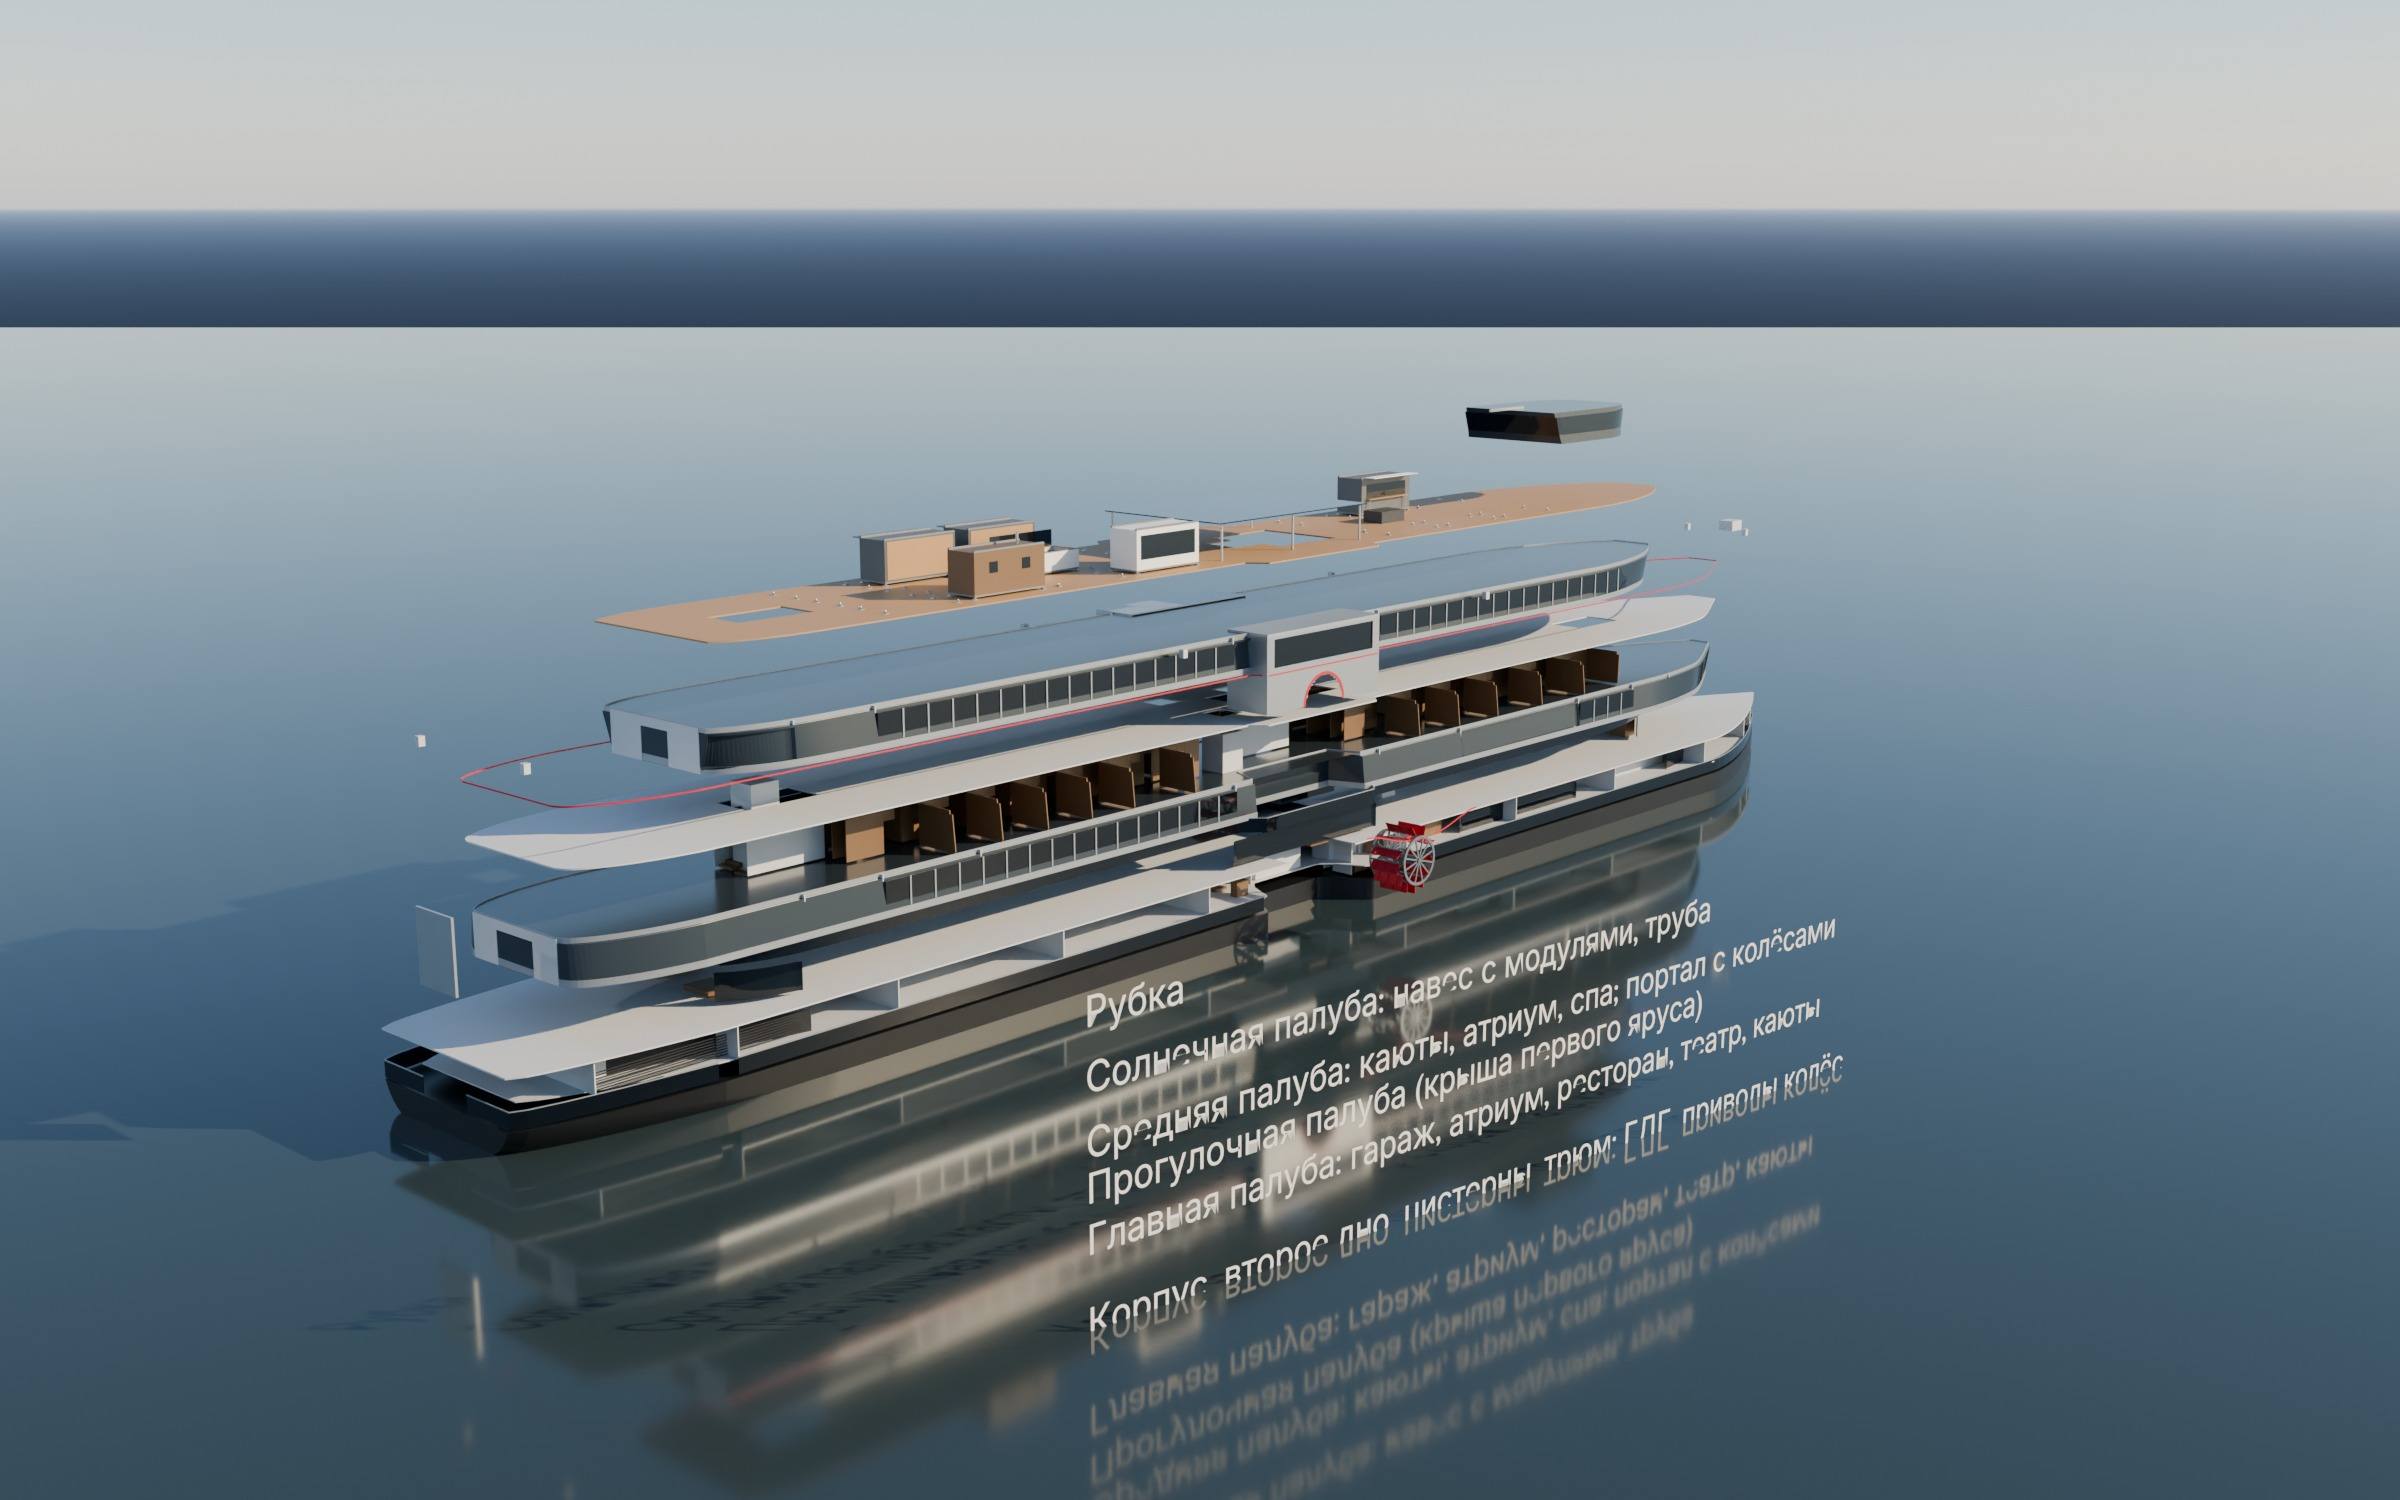
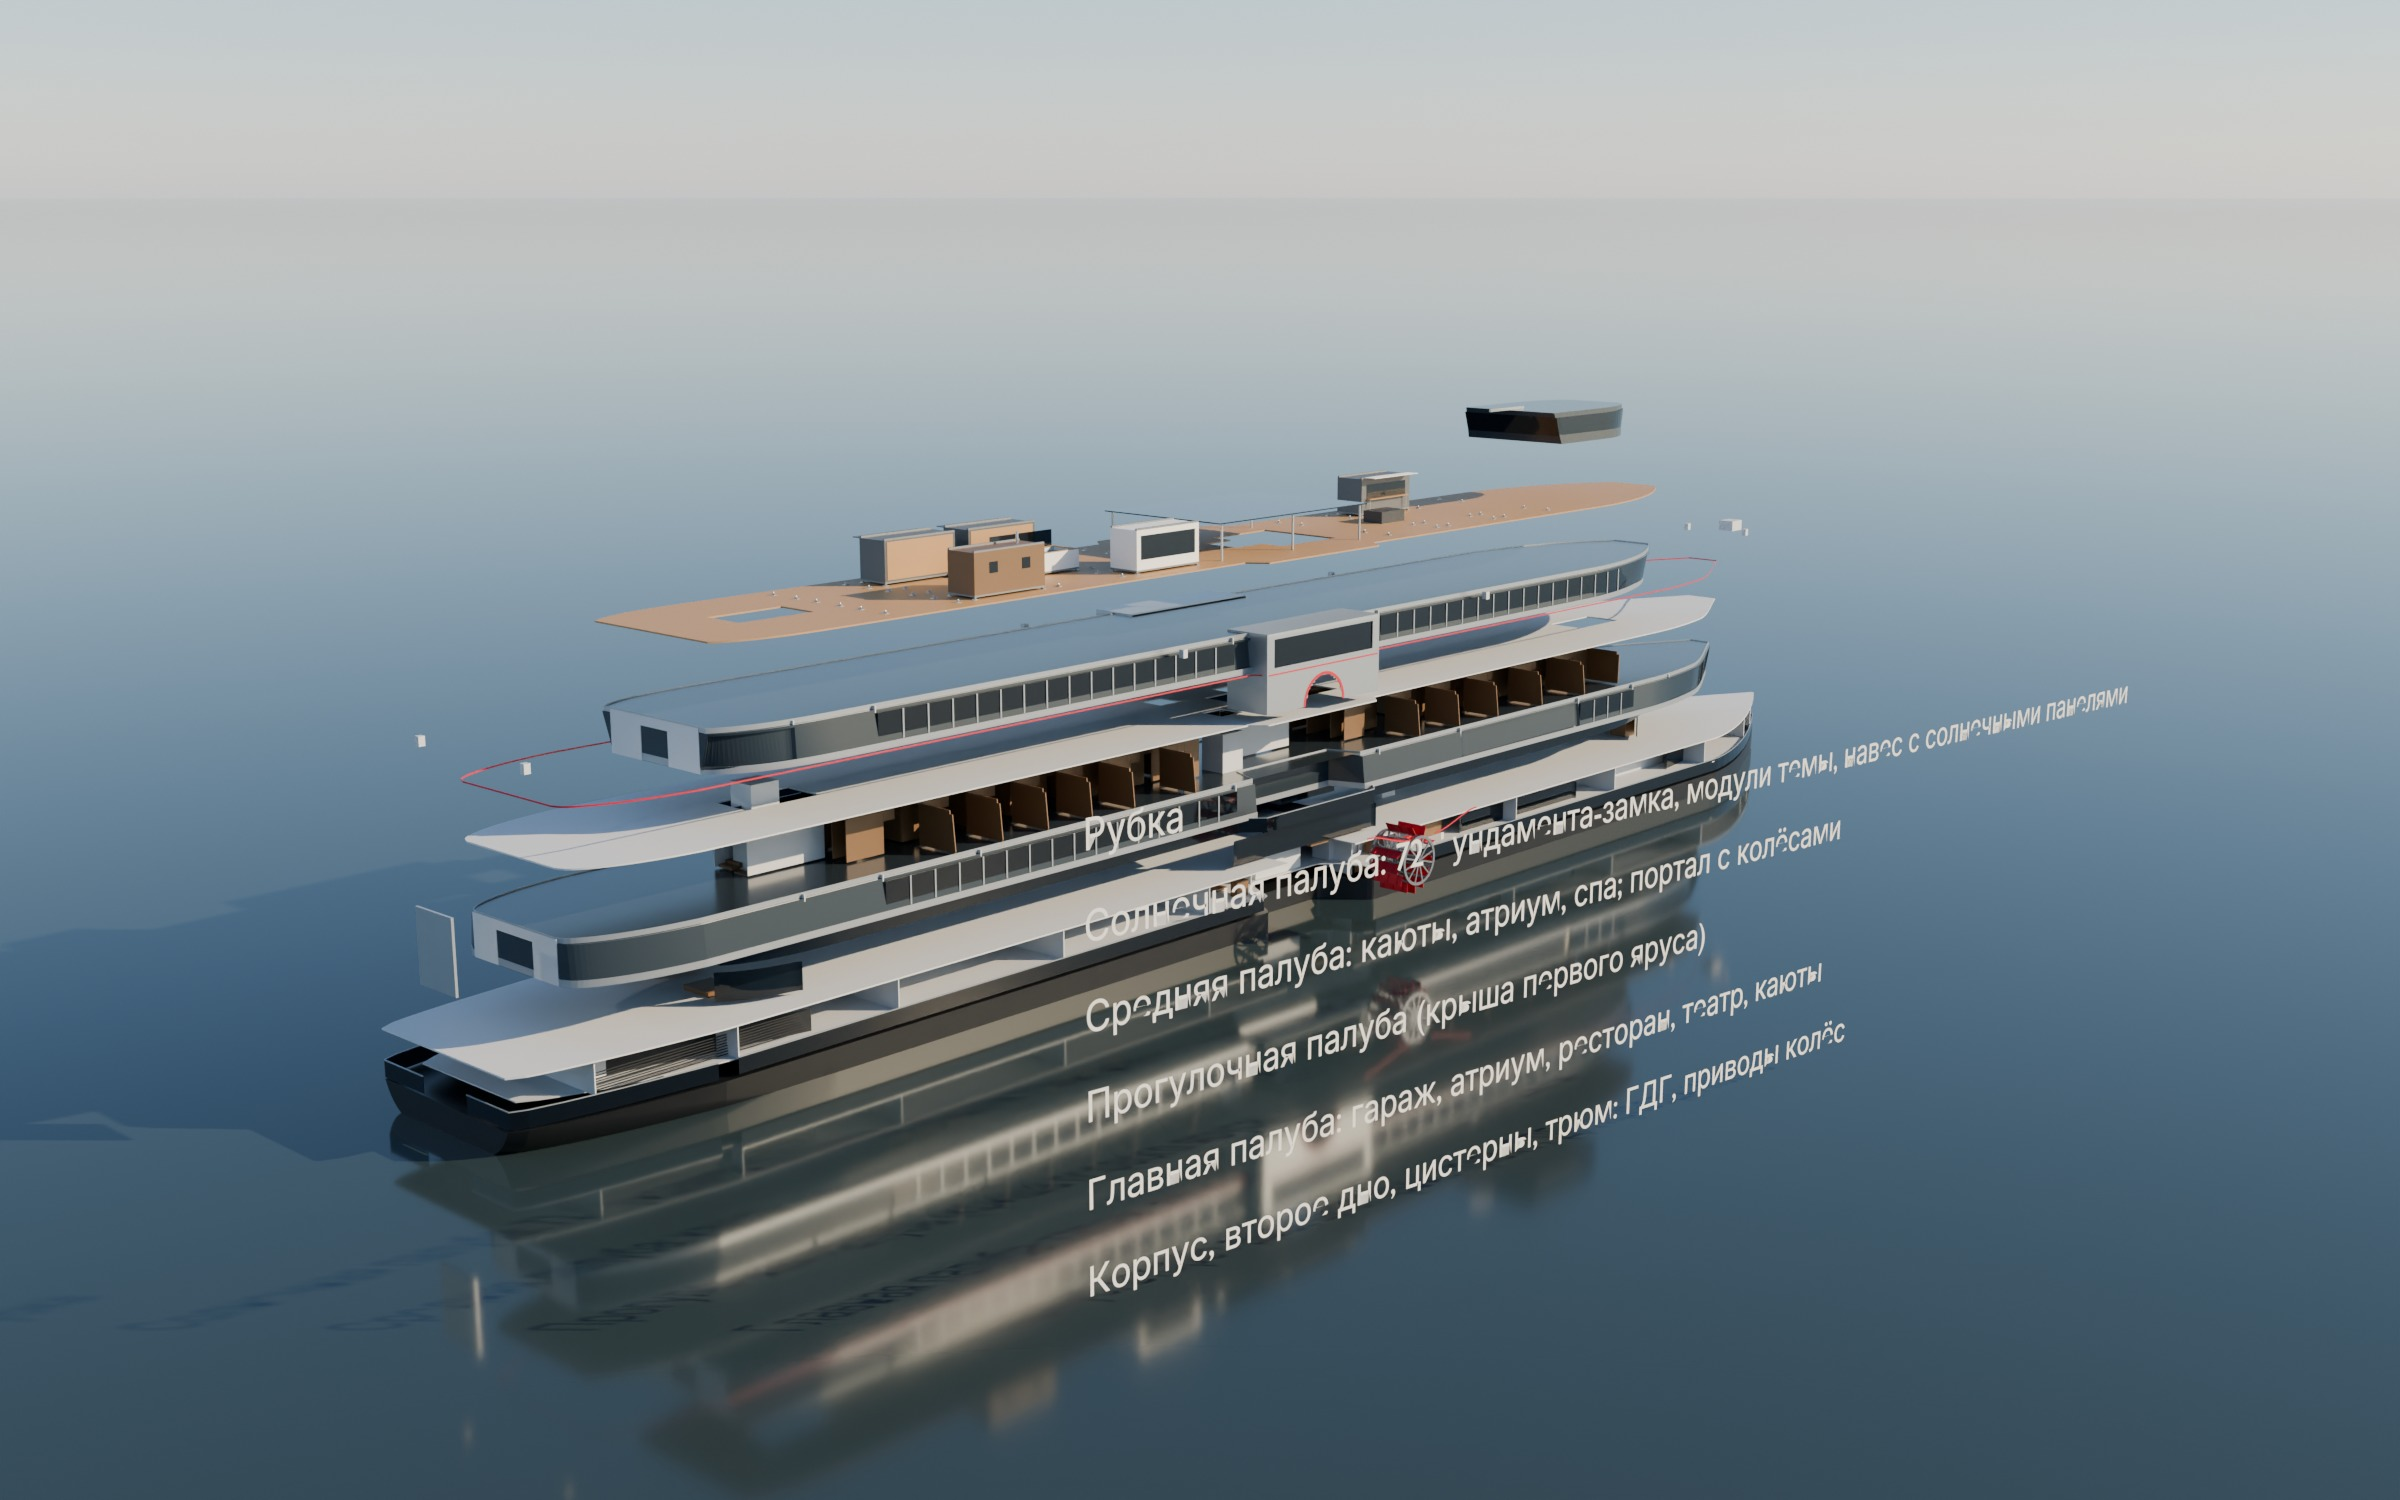
Взрыв-схема судна: вода до горизонта, подписи ровным шагом и без отражения, солнечная палуба с фундаментами и модулями
Claude-Session: https://claude.ai/code/session_017i8ywbP7wsQ3im618Sz9r4

diff --git a/scripts/blender_взрыв.py b/scripts/blender_взрыв.py
@@ -60,7 +60,7 @@ def подписи():
                ("Главная палуба: гараж, атриум, ресторан, театр, каюты", 6.5),
                ("Прогулочная палуба (крыша первого яруса)", 10.5),
                ("Средняя палуба: каюты, атриум, спа; портал с колёсами", 14.0),
-               ("Солнечная палуба: навес с модулями, труба", 19.0),
+               ("Солнечная палуба: 72 фундамента-замка, модули темы, навес с солнечными панелями", 19.0),
                ("Рубка", 24.0)]
     сделано = []
     for i, (т, dz) in enumerate(пометки):
@@ -68,9 +68,12 @@ def подписи():
         cu.body = т; cu.size = 2.0
         ob = bpy.data.objects.new("_взрыв_подпись_%d" % i, cu)
         bpy.context.scene.collection.objects.link(ob)
-        # столбик подписей перед судном, снизу вверх в порядке сборок
-        ob.location = (6.0, -44.0, 1.0 + dz * 0.62)
+        # столбик подписей перед судном, снизу вверх в порядке сборок; шаг ровный —
+        # сверху под углом строки сжимаются, и при шаге по dz они наезжали друг на друга
+        ob.location = (6.0, -44.0, 3.0 + 4.2 * i)
         ob.rotation_euler = (math.radians(90), 0, math.radians(-8))
+        if hasattr(ob, "visible_glossy"):
+            ob.visible_glossy = False           # без отражения в воде: зеркальные строки читались как мусор
         сделано.append(ob)
     return сделано
 
